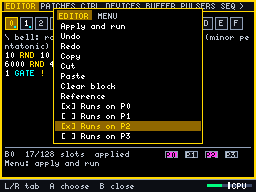
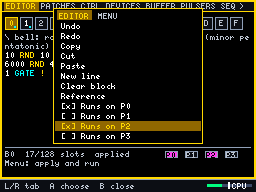
Handheld editor: New line, and paste keeps its neighbours apart
The editor Menu gets a New line row: stand on the gap between two words with the
D-pad and the space becomes the line break (the handheld had no way to break a
line by hand). Paste on the handheld now keeps the pasted text apart from the
words around it and leaves the cursor after a separator, so ENT is not needed
afterwards. The desktop is unchanged. Menu rows shift by one: tests, padshot,
the manual and its pictures follow.

Changed region(s): [[0.2188, 0.1875, 0.4062, 0.4062], [0.2188, 0.125, 0.5, 0.1562]]

diff --git a/docs/manual.html b/docs/manual.html
@@ -1087,7 +1087,8 @@ table.regs tr.grp th { color: var(--mag); padding-top: 1.5rem; border-top: 1px s
 <p>Press <b>Menu</b> for a box with two tabs. The first tab carries the name of the screen you are on (EDITOR, say) and lists the extra things that screen can do. <b>MENU</b> holds the things that belong to the whole machine. <b>Left</b> and <b>Right</b> (or <b>L1</b> and <b>R1</b>) switch tabs, <b>Up</b> and <b>Down</b> pick, <b>A</b> chooses, and <b>B</b> closes the box (or, inside Go to screen, goes back one step). A screen with no extra actions, such as Scope, opens on the MENU tab. The version of FEZ is shown at the right of the MENU tab.</p>
 
 <ul>
-  <li><b>Selecting and copying</b>: in the editor, hold <b>Y</b> and use the D-pad to select text, as Shift does on the desktop. Then open the menu and choose Copy or Cut; move the cursor, even to another block, and choose Paste. B deletes the selection if there is one, and otherwise the last word.</li>
+  <li><b>Selecting and copying</b>: in the editor, hold <b>Y</b> and use the D-pad to select text, as Shift does on the desktop. Then open the menu and choose Copy or Cut; move the cursor, even to another block, and choose Paste. Pasted text is kept apart from the words around it and leaves the cursor after a space, so the next word you pick does not join it. B deletes the selection if there is one, and otherwise the last word.</li>
+  <li><b>Starting a new line</b>: the palette breaks lines for you after words that end a statement (<code>!</code>, <code>W</code> and the like). To break one yourself, move the cursor with the D-pad onto the space between two words, open the menu and choose <b>New line</b>. The space becomes the break.</li>
   <li>screen's own tab: extra things the current screen can do that do not fit on A, B and X. On the editor these are run the block once, undo, redo, copy, cut, paste, clear the block, and four tick boxes that say which pulsers run this block. Other screens have theirs: on Buffer, trigger, stop, record, freeze and clear; on Devices, next and previous page and the reseed actions.</li>
   <li><b>MENU</b> tab, <b>Go to screen</b>: jump straight to any screen.</li>
   <li><b>New blank patch</b>: throw the current patch away and start empty. It takes you to the Patches screen and opens a question box: <b>A</b> yes, <b>B</b> no. Deleting or replacing a saved patch asks the same way.</li>
@@ -1097,9 +1098,9 @@ table.regs tr.grp th { color: var(--mag); padding-top: 1.5rem; border-top: 1px s
   <li><b>Quit</b>: leave FEZ and return to the launcher.</li>
 </ul>
 
[5 lines of base64/hex data omitted]
 
 <h3 id="saving">Saving a patch</h3>
 

diff --git a/docs/chapters/09_handheld.html b/docs/chapters/09_handheld.html
@@ -116,7 +116,8 @@
 <p>Press <b>Menu</b> for a box with two tabs. The first tab carries the name of the screen you are on (EDITOR, say) and lists the extra things that screen can do. <b>MENU</b> holds the things that belong to the whole machine. <b>Left</b> and <b>Right</b> (or <b>L1</b> and <b>R1</b>) switch tabs, <b>Up</b> and <b>Down</b> pick, <b>A</b> chooses, and <b>B</b> closes the box (or, inside Go to screen, goes back one step). A screen with no extra actions, such as Scope, opens on the MENU tab. The version of FEZ is shown at the right of the MENU tab.</p>
 
 <ul>
-  <li><b>Selecting and copying</b>: in the editor, hold <b>Y</b> and use the D-pad to select text, as Shift does on the desktop. Then open the menu and choose Copy or Cut; move the cursor, even to another block, and choose Paste. B deletes the selection if there is one, and otherwise the last word.</li>
+  <li><b>Selecting and copying</b>: in the editor, hold <b>Y</b> and use the D-pad to select text, as Shift does on the desktop. Then open the menu and choose Copy or Cut; move the cursor, even to another block, and choose Paste. Pasted text is kept apart from the words around it and leaves the cursor after a space, so the next word you pick does not join it. B deletes the selection if there is one, and otherwise the last word.</li>
+  <li><b>Starting a new line</b>: the palette breaks lines for you after words that end a statement (<code>!</code>, <code>W</code> and the like). To break one yourself, move the cursor with the D-pad onto the space between two words, open the menu and choose <b>New line</b>. The space becomes the break.</li>
   <li>screen's own tab: extra things the current screen can do that do not fit on A, B and X. On the editor these are run the block once, undo, redo, copy, cut, paste, clear the block, and four tick boxes that say which pulsers run this block. Other screens have theirs: on Buffer, trigger, stop, record, freeze and clear; on Devices, next and previous page and the reseed actions.</li>
   <li><b>MENU</b> tab, <b>Go to screen</b>: jump straight to any screen.</li>
   <li><b>New blank patch</b>: throw the current patch away and start empty. It takes you to the Patches screen and opens a question box: <b>A</b> yes, <b>B</b> no. Deleting or replacing a saved patch asks the same way.</li>

diff --git a/test/test_pad.c b/test/test_pad.c
@@ -110,7 +110,7 @@ void test_pad(void) {
   tap(BTN_RIGHT); tap(BTN_A); CHECK(pad.menu == 1, "Go to screen opens its list");
   tap(BTN_B); CHECK(pad.menu == 0, "B in the list goes back to the MENU tab");
   tap(BTN_LEFT);
-  for (int i = 0; i < 8; i++) tap(BTN_DOWN);                                    /* past Run, Undo, Redo, Copy, Cut, Paste, Clear, Reference: now on "Runs on P0" */
+  for (int i = 0; i < 9; i++) tap(BTN_DOWN);                                    /* past Run, Undo, Redo, Copy, Cut, Paste, New line, Clear, Reference: now on "Runs on P0" */
   tap(BTN_A); CHECK(pad.menu == 2 && (s.mem[REG_BP0 + d.ed.blk] & 1), "A on Runs on P0 sets the bit and keeps the menu open");
   tap(BTN_DOWN); tap(BTN_DOWN); tap(BTN_A); CHECK(pad.menu == 2 && s.mem[REG_BP0 + d.ed.blk] == 5, "P2 can be added without closing the menu");
   tap(BTN_UP); tap(BTN_UP); tap(BTN_A); CHECK(s.mem[REG_BP0 + d.ed.blk] == 4, "A again clears the bit");
@@ -229,7 +229,26 @@ void test_pad(void) {
     CHECK(strcmp(test_clip, "beta") == 0 && strcmp(d.ed.text[0], "alpha beta") == 0, "Copy puts the selection on the clipboard and leaves the text");
     d.ed.cursor = 0; d.ed.anchor = -1;
     editor_action(5);                                                           /* Paste */
-    CHECK(strcmp(d.ed.text[0], "betaalpha beta") == 0, "Paste inserts the clipboard at the cursor");
+    CHECK(strcmp(d.ed.text[0], "beta alpha beta") == 0, "Paste inserts the clipboard at the cursor, apart from the word after it");
+    CHECK(d.ed.cursor == 5, "Paste leaves the cursor after the separator, ready for the next word");
+    /* pasted text never joins a neighbour, in the middle of a line, after a word, or at the end */
+    snprintf(d.ed.text[0], sizeof d.ed.text[0], "A B"); snprintf(test_clip, sizeof test_clip, "100");
+    d.ed.cursor = 1; d.ed.anchor = -1; editor_action(5);                           /* on the gap between A and B */
+    CHECK(strcmp(d.ed.text[0], "A 100 B") == 0 && d.ed.cursor == 6, "Paste on the gap between two words gives one space each side");
+    snprintf(d.ed.text[0], sizeof d.ed.text[0], "DUP");
+    d.ed.cursor = 3; d.ed.anchor = -1; editor_action(5);
+    CHECK(strcmp(d.ed.text[0], "DUP 100 ") == 0 && d.ed.cursor == 8, "Paste at the end of a word is spaced from it and leaves a separator, so no ENT is needed");
+    snprintf(d.ed.text[0], sizeof d.ed.text[0], "alpha beta");
+    /* New line: stand on the gap between words with the D-pad, choose it, and the gap becomes the break */
+    d.ed.cursor = 5; d.ed.anchor = -1; editor_action(6);                           /* New line, on the space */
+    CHECK(strcmp(d.ed.text[0], "alpha\nbeta") == 0 && d.ed.cursor == 6, "New line on a gap turns the space into a line break");
+    snprintf(d.ed.text[0], sizeof d.ed.text[0], "alpha beta");
+    d.ed.cursor = 6; d.ed.anchor = -1; editor_action(6);                           /* just after the space */
+    CHECK(strcmp(d.ed.text[0], "alpha\nbeta") == 0, "New line just after a space gives the same result");
+    snprintf(d.ed.text[0], sizeof d.ed.text[0], "alpha");
+    d.ed.cursor = 5; d.ed.anchor = -1; editor_action(6);
+    CHECK(strcmp(d.ed.text[0], "alpha\n") == 0, "New line at the end starts a fresh line");
+    snprintf(d.ed.text[0], sizeof d.ed.text[0], "alpha beta"); snprintf(test_clip, sizeof test_clip, "beta");
     snprintf(d.ed.text[0], sizeof d.ed.text[0], "one two");
     d.ed.cursor = 7; d.ed.anchor = 4;
     editor_action(4);                                                           /* Cut */
@@ -286,7 +305,7 @@ void test_pad(void) {
 
   /* the editor menu's Reference opens the palette taller, with each word's help */
   { d.layouts[d.layout].tab[d.focus] = TAB_EDITOR; pad.menu = -1; pad.pal = 0;
-    editor_action(7);
+    editor_action(8);
     CHECK(pad.pal && pad.ref && pad.menu == -1, "Reference opens the palette with help and closes the menu");
     pad_draw(&pad);
     tap(BTN_B); CHECK(!pad.pal, "B closes it");

diff --git a/desk/tab_editor.c b/desk/tab_editor.c
@@ -228,7 +228,19 @@ static void paste(Desk *d) {
   }
   if (!n) return;
   begin_edit(d, 0);
-  insert_raw(d, clean, n);
+  if (!d->handheld) { insert_raw(d, clean, n); return; }                 /* the desktop pastes exactly what is on the clipboard */
+  /* The handheld edits a list of words, so keep the pasted text apart from its neighbours (as inserting a word from the palette
+     does), and leave the cursor after a separator, ready for the next word: no need to find ENT afterwards. */
+  Editor *e = ed(d);
+  delete_selection(d);
+  const char *t = txt(d);
+  int c = e->cursor;
+  if (c > 0 && t[c - 1] != ' ' && t[c - 1] != '\n' && clean[0] != ' ' && clean[0] != '\n') insert_raw(d, " ", 1);   /* 1) not glued to the word before */
+  insert_raw(d, clean, n);                                                                                         /* 2) the text itself */
+  t = txt(d); c = e->cursor;
+  if (t[c] == ' ' || t[c] == '\n') e->cursor = c + 1;                                                              /* 3) a separator follows already: step over it */
+  else if (clean[n - 1] != ' ' && clean[n - 1] != '\n') insert_raw(d, " ", 1);                                      /*    or make one (also at the end of the text) */
+  e->want_col = e->cursor - chunk_start(txt(d), e->cursor, imax(e->width, 8));
 }
 
 /* Ctrl+/: put "\ " at the start of the line's text, or take it off if it is there. */
@@ -284,6 +296,18 @@ static void move_vertical(Desk *d, int dir, int mods) {
 
 static void newline(Desk *d) {
   const char *t = txt(d);
+  if (d->handheld) {
+    /* The handheld has no typing, so a line break is made by standing on the gap between two words (D-pad) and choosing New line.
+       The gap IS the break: the spaces around the cursor go, so the next line does not start with a stray space. */
+    begin_edit(d, 0);
+    delete_selection(d);
+    int c = ed(d)->cursor;
+    while (c > 0 && txt(d)[c - 1] == ' ') { delete_range(d, c - 1, c); c--; }
+    while (txt(d)[c] == ' ') delete_range(d, c, c + 1);
+    insert_raw(d, "\n", 1);
+    ed(d)->want_col = 0;
+    return;
+  }
   int ls = line_start(t, ed(d)->cursor), ind = 0;
   while (t[ls + ind] == ' ' && ls + ind < ed(d)->cursor) ind++;        /* keep the previous line's indentation */
   char buf[64] = "\n";

diff --git a/desk/pad.c b/desk/pad.c
@@ -107,7 +107,7 @@ enum { MENU_CLOSED = -1, MENU_MAIN = 0, MENU_GOTO = 1, MENU_ACTIONS = 2 };
 /* What a tab can do that a plain button does not reach: each is a key the desktop tab already understands. */
 typedef struct { const char *label; int key, mods, text, check; } Action;   /* text: send the key as typed text, not a key press. check: a checkbox for "this block runs on pulser (key - '1')": it shows its state, and the menu stays open after A */
 static const Action A_EDITOR[]  = { { "Apply and run", 'r', MOD_CTRL, 0, 0 }, { "Undo", 'z', MOD_CTRL, 0, 0 }, { "Redo", 'y', MOD_CTRL, 0, 0 },
-  { "Copy", 'c', MOD_CTRL, 0, 0 }, { "Cut", 'x', MOD_CTRL, 0, 0 }, { "Paste", 'v', MOD_CTRL, 0, 0 }, { "Clear block", 0, 0, 0, 0 }, { "Reference", KEY_F3, 0, 0, 0 },
+  { "Copy", 'c', MOD_CTRL, 0, 0 }, { "Cut", 'x', MOD_CTRL, 0, 0 }, { "Paste", 'v', MOD_CTRL, 0, 0 }, { "New line", KEY_ENTER, 0, 0, 0 }, { "Clear block", 0, 0, 0, 0 }, { "Reference", KEY_F3, 0, 0, 0 },
   { "Runs on P0", '1', MOD_CTRL, 0, 1 }, { "Runs on P1", '2', MOD_CTRL, 0, 1 }, { "Runs on P2", '3', MOD_CTRL, 0, 1 }, { "Runs on P3", '4', MOD_CTRL, 0, 1 } };
 static const Action A_PATCHES[] = { { "Save patch", 's', MOD_CTRL, 0, 0 }, { "Delete patch", 'd', MOD_CTRL, 0, 0 }, { "New blank patch", 'n', MOD_CTRL, 0, 0 }, { "Other list", '[', 0, 1, 0 } };
 static const Action A_CTRL[]    = { { "Units / raw", KEY_TAB, 0, 0, 0 } };

diff --git a/tools/padshot.c b/tools/padshot.c
@@ -75,12 +75,12 @@ int main(int argc, char **argv) {
   for (int i = 0; i < 6; i++) tap(BTN_DOWN);
   dump(prefix, "11c_palette_regs_down");
   tap(BTN_B);
-  tap(BTN_MENU); for (int i = 0; i < 7; i++) tap(BTN_DOWN); tap(BTN_A);   /* the editor menu's Reference: the palette with help */
+  tap(BTN_MENU); for (int i = 0; i < 8; i++) tap(BTN_DOWN); tap(BTN_A);   /* the editor menu's Reference: the palette with help */
   tap(BTN_R2); tap(BTN_R2); for (int i = 0; i < 13; i++) tap(BTN_RIGHT); dump(prefix, "11d_palette_reference");   /* the picture in the manual (it lands on STACK, DROP) */
   tap(BTN_B);
   tap(BTN_MENU); dump(prefix, "12_menu");                 /* opens on the editor's actions */
   synth.mem[REG_BP0] = 0;                                  /* so the two ticks below are the only ones */
-  for (int i = 0; i < 8; i++) tap(BTN_DOWN); tap(BTN_A); tap(BTN_DOWN); tap(BTN_DOWN); tap(BTN_A); dump(prefix, "12b_actions");   /* P0 and P2 ticked */
+  for (int i = 0; i < 9; i++) tap(BTN_DOWN); tap(BTN_A); tap(BTN_DOWN); tap(BTN_DOWN); tap(BTN_A); dump(prefix, "12b_actions");   /* P0 and P2 ticked */
   tap(BTN_RIGHT); dump(prefix, "12c_menu_main");           /* the MENU tab */
   tap(BTN_A); dump(prefix, "13_goto");
   tap(BTN_B); tap(BTN_B);

diff --git a/CLAUDE.md b/CLAUDE.md
@@ -83,7 +83,7 @@ Recording: the audio thread never touches the disk. It drops each output sample 
 - **Keyboard device** (registers KBMODE, KBSWELL, KBTYPE, KBCOL (546 to 549) and KBROOT (554; swell and colour modes, 26 Nov 2026), KBNOTE, KBGATE read only, KBOCT, KBPUL; matrix source 21 `KB`, ROUTE takes KBNOTE as its source): `fez_note_on/off/all_notes_off` in `synth.c` is the one place notes enter, and where MIDI will land. A key down writes PITCH and KBNOTE, fires the envelope and fires the KBPUL pulsers; newest key wins, and letting go of it returns to the one before with no new trigger. **Sustain**: `gate_hold` (set while any key is down) keeps the control envelope at the top and the audio lowpass gate's LED on; the last key up lets it fall over REL. Blocks, pulsers and the sequencer still fire the old trigger envelope. On the desktop the KEYS tab plays the tracker layout (Z S X D C V G B H N J M, then Q 2 W 3 E R 5 T 6 Y 7 U, by scancode so any keyboard layout works); only that tab plays, but a key-up is always honoured, and losing window focus lets go of everything. With KBTYPE 1 the white keys play degrees of colour KBCOL above KBROOT (a pitch, default C3; KBOCT is then unused) (Z..M are 0..6, Q..U 7..13), as STICKS does: the nearest whole note through `fez_note_on`, then the exact PITCH; black keys are silent; MIDI stays chromatic (`desk_note_key` in desk.c). KBMODE 1 (swell; KBMODE and KBSWELL at 546, 547, now the start of the group) writes only PITCH and holds the swell open while any key is down (`kb_key_note` negative); `kb_swell_tick` (desk.c, every tick, any tab) moves GATELEVEL over KBSWELL ms (default 1000).
 - - **GATELEVEL** (register 111, in the voice run after GATE; CV0 to LEVEL moved up one to make room): the lowpass gate's opening is `clamp(vactrol + GATELEVEL / 32767, 0, 1)` in `audio.c`. 0 (the default) is the old behaviour; full is an always-open gate (a drone). It is a normal parameter, so the matrix can modulate it. ENV (the matrix source) stays the pure envelope.
 - **Error marking**: `Compiled` keeps `pos[slot]` (source offset of the token behind each slot) and `err_pos` (the token that would not compile); `Block.fault_slot` is the slot of the block's own code that halted it (the `W` call, when a word did). The editor paints that token red (desk/tab_editor.c). The mark for a halt shows only while the text is as applied.
-**Pitch is 8.8 semitones**: MIDI note x 256 (C4 = 15360, octave = 3072). `ST` converts semitones, `HZ` converts tenths of a hertz (4400 HZ = A4). Registers hold 0 to 32767; literals are 15 bit and have no sign: a negative number is written `5 NEG`, On the handheld the editor's own tab has Copy, Cut and Paste (Ctrl+C/X/V in the desktop editor); select with Y held and the D-pad, and B deletes a selection instead of a word. On the handheld the two analogue sticks are MP0..MP3 on every screen (`pad_stick` in `desk/pad.c`: centre 16384, a dead zone of 4096 raw, up raises the pot; the handheld has no KEYS tab; the STICKS tab plays notes from the left stick instead, 26 Nov 2026). A patch load leaves the pots alone (they are the controls, not the patch). The 16 modulation pots MP0..MP15 are read-only to code and set by the host with `fez_set_pot` (MIDI will use it); they live at addresses 560 to 575 (MP0..MP3 used to be at 120..123, now unused), and as matrix sources they are 7..22 in one run (the sources are numbered in `SRC_TABLE` in tables.c, one row each with its name and the register ROUTE names it by: none, LFO0, ENV, CV0..3, MP0..15, CADENS, SLO0..3, LZX..LZZ, SQ, TM, KB, SWELL = 0..34; SWELL reads GATELEVEL, which the KEYS and STICKS swells write, added 27 Nov 2026). Patch files store routes by source NAME (`route ENV CUTOFF 6000`), so renumbering sources cannot break a saved patch (old numeric `route 2 ...` lines are skipped and counted; Jon chose a clean format over compatibility, 25 Nov 2026). The built-in examples in `tables.c` name their route sources too (`{"ENV", REG_CUTOFF, 4000}`, resolved at load; a test checks every name). `*` multiplies whole numbers (saturating, like `+`) and `F*` multiplies fractions (32768 is 1.0; this was `*` until 25 Nov 2026, when Jon asked for consistency; nothing used it), and a typed `-5` is a compile error ("no negative numbers: write 5 NEG"), so every token is exactly one slot and SKIP skips exactly one visible token (changed 25 Nov 2026; no example or saved patch used a negative literal). Block size is 128 slots.
+**Pitch is 8.8 semitones**: MIDI note x 256 (C4 = 15360, octave = 3072). `ST` converts semitones, `HZ` converts tenths of a hertz (4400 HZ = A4). Registers hold 0 to 32767; literals are 15 bit and have no sign: a negative number is written `5 NEG`, On the handheld the editor's own tab has Copy, Cut and Paste (Ctrl+C/X/V in the desktop editor); select with Y held and the D-pad, and B deletes a selection instead of a word. Paste there keeps the pasted text apart from its neighbours and leaves the cursor after a separator (no ENT needed), and the editor Menu's **New line** row (after Paste; `newline()` in tab_editor.c does the handheld version: the spaces around the cursor become the break) is the only way to break a line by hand (added 27 Nov 2026). On the handheld the two analogue sticks are MP0..MP3 on every screen (`pad_stick` in `desk/pad.c`: centre 16384, a dead zone of 4096 raw, up raises the pot; the handheld has no KEYS tab; the STICKS tab plays notes from the left stick instead, 26 Nov 2026). A patch load leaves the pots alone (they are the controls, not the patch). The 16 modulation pots MP0..MP15 are read-only to code and set by the host with `fez_set_pot` (MIDI will use it); they live at addresses 560 to 575 (MP0..MP3 used to be at 120..123, now unused), and as matrix sources they are 7..22 in one run (the sources are numbered in `SRC_TABLE` in tables.c, one row each with its name and the register ROUTE names it by: none, LFO0, ENV, CV0..3, MP0..15, CADENS, SLO0..3, LZX..LZZ, SQ, TM, KB, SWELL = 0..34; SWELL reads GATELEVEL, which the KEYS and STICKS swells write, added 27 Nov 2026). Patch files store routes by source NAME (`route ENV CUTOFF 6000`), so renumbering sources cannot break a saved patch (old numeric `route 2 ...` lines are skipped and counted; Jon chose a clean format over compatibility, 25 Nov 2026). The built-in examples in `tables.c` name their route sources too (`{"ENV", REG_CUTOFF, 4000}`, resolved at load; a test checks every name). `*` multiplies whole numbers (saturating, like `+`) and `F*` multiplies fractions (32768 is 1.0; this was `*` until 25 Nov 2026, when Jon asked for consistency; nothing used it), and a typed `-5` is a compile error ("no negative numbers: write 5 NEG"), so every token is exactly one slot and SKIP skips exactly one visible token (changed 25 Nov 2026; no example or saved patch used a negative literal). Block size is 128 slots.
 - **Pulsers hold no block.** Each block has a 4-bit pulser mask (BP0 to BP15); SQPUL and GRPUL are masks for the sequencer clock and the next grain; RUN runs a block next tick. A block runs once per tick however many pulsers fire.
 - **Matrix destinations** are the rows of `PARAM_TABLE` (66 besides GATE, 27 Nov 2026), and every one is read through `eff` (a test routes to each new kind): ATK and REL are worked out at the moment of the gate with `fez_modulated_now` (eff is a tick old, and a block may write ATK just before GATE); LFORATE, LZRATE (now held in the register file, not `lz`), PRATE0..3 and all eight buffer voices' GPOS, GRATE, GLVL. PRATE's modulation is scaled to its range (`PRATE_MIN`..`PRATE_MAX`, 10..600) in `modulated()` in synth.c. Sources are `SRC_TABLE` (`SrcDef`: name, address, group heading, help line); the MATRIX pick lists show both grouped like CTRL (destinations in address order under `REG_GROUPS`) with the highlighted entry's help.
 - **Pulser rate** is pulses per minute, 10 to 600, held in the registers PRATE0..PRATE3 (506 to 509, the start of the PULSERS group; added 26 Nov 2026 so blocks can change it; the only place the rate lives). Patch files still write it on the `pulser N on X rate R` line, and the register list skips PRATE so it is not written twice. A file load clamps lower rates to 10, so patches use probabilistic blocks for slow events.
